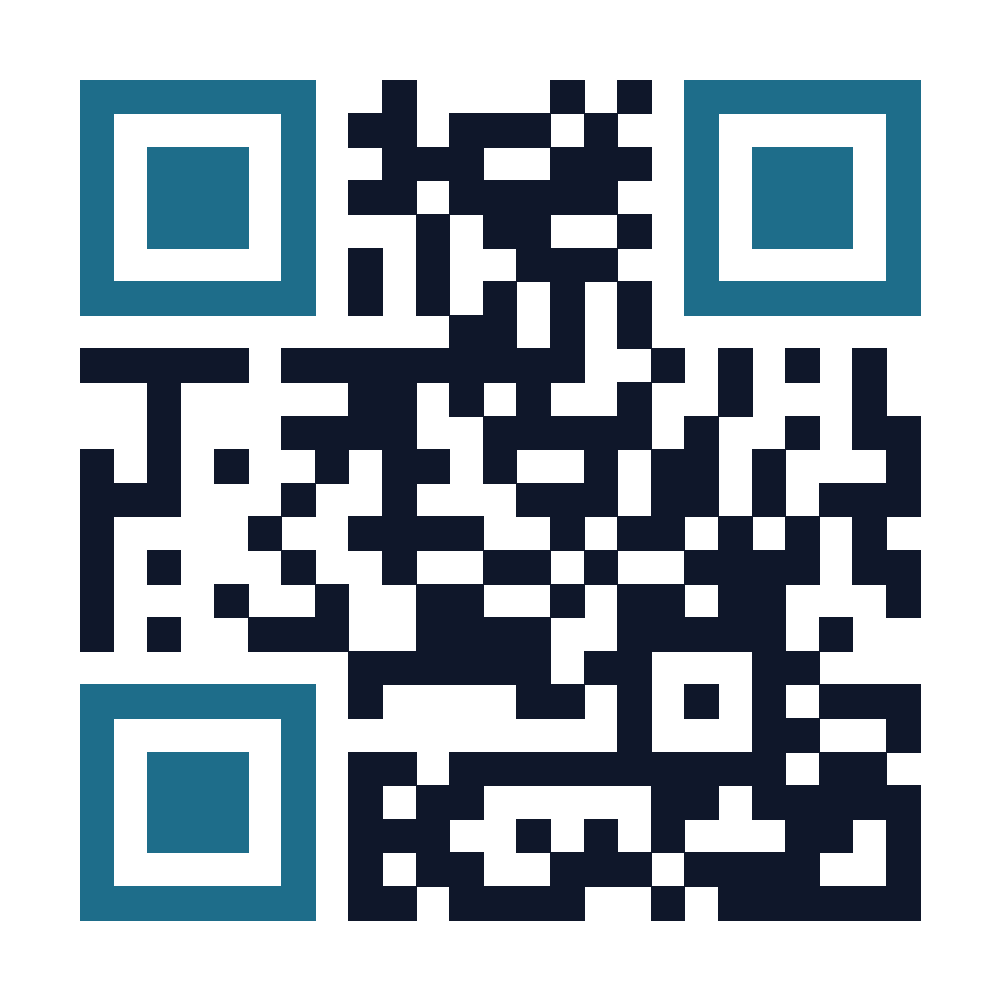
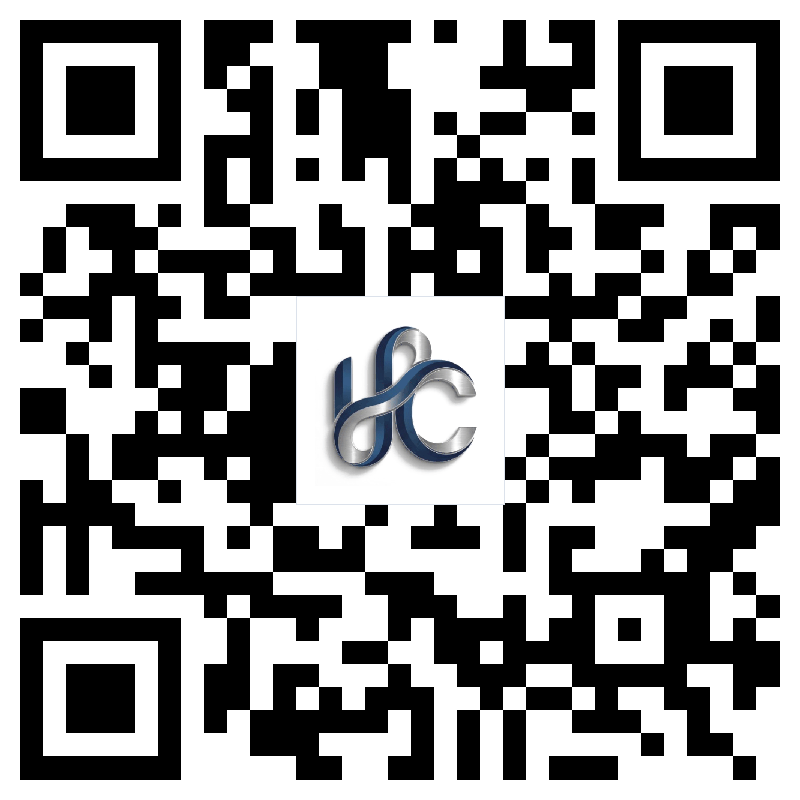
fix(qr): update QR code target URL to hassanandsonscorp.com and embed white-base emblem

diff --git a/resources/views/layouts/catalog.blade.php b/resources/views/layouts/catalog.blade.php
@@ -534,11 +534,11 @@
             {{-- QR Code Column --}}
             <div>
                 <h4>Scan &amp; Visit</h4>
-                <div style="background:#fff; padding:8px; border-radius:12px; border:1px solid var(--border); display:inline-block; margin-bottom:8px; box-shadow:0 2px 8px rgba(0,0,0,.04); cursor:pointer;" onclick="openQrModal('{{ url('/') }}', 'Hassan & Sons Store')">
-                    <img src="{{ asset('images/hassanandsons-qr.png') }}" alt="Store QR Code" style="width:100px; height:100px; display:block; border-radius:6px;">
+                <div style="background:#fff; padding:8px; border-radius:12px; border:1px solid var(--border); display:inline-block; margin-bottom:8px; box-shadow:0 2px 8px rgba(0,0,0,.04); cursor:pointer;" onclick="openQrModal('https://hassanandsonscorp.com/', 'Hassan & Sons Store')">
+                    <img src="{{ asset('images/hassanandsons-qr.png') }}?v=2" alt="Store QR Code" style="width:100px; height:100px; display:block; border-radius:6px;">
                 </div>
                 <p style="font-size:12px; color:var(--muted); line-height:1.4; margin-bottom:6px;">Scan with your smartphone camera to access store on mobile.</p>
-                <a href="{{ asset('images/hassanandsons-qr.png') }}" download="Hassan-and-Sons-QR.png" style="font-size:12px; font-weight:700; color:var(--primary); text-decoration:none; display:inline-flex; align-items:center; gap:4px;">
+                <a href="{{ asset('images/hassanandsons-qr.png') }}?v=2" download="Hassan-and-Sons-QR.png" style="font-size:12px; font-weight:700; color:var(--primary); text-decoration:none; display:inline-flex; align-items:center; gap:4px;">
                     <i class="bi bi-download"></i> Download QR
                 </a>
             </div>
@@ -669,10 +669,18 @@
     }
 
     // QR Code Modal
-    let currentQrUrl = "{{ url('/') }}";
+    let currentQrUrl = "https://hassanandsonscorp.com/";
 
     function openQrModal(targetUrl, title = 'Scan & Access Store') {
-        currentQrUrl = targetUrl || "{{ url('/') }}";
+        let cleanUrl = targetUrl || window.location.href;
+        // Ensure domain is hassanandsonscorp.com
+        if (!cleanUrl || cleanUrl.indexOf('localhost') !== -1 || cleanUrl.indexOf('127.0.0.1') !== -1) {
+            cleanUrl = "https://hassanandsonscorp.com/";
+        } else if (cleanUrl.indexOf('hassanandsons.com') !== -1 && cleanUrl.indexOf('hassanandsonscorp.com') === -1) {
+            cleanUrl = cleanUrl.replace('hassanandsons.com', 'hassanandsonscorp.com');
+        }
+        currentQrUrl = cleanUrl;
+
         const modal = document.getElementById('qrCodeModal');
         const img = document.getElementById('qrModalImage');
         const dlBtn = document.getElementById('btnDownloadQr');
@@ -680,9 +688,9 @@
 
         if (titleEl) titleEl.textContent = title;
 
-        if (!targetUrl || targetUrl === "{{ url('/') }}" || targetUrl.indexOf('localhost') !== -1 || targetUrl.indexOf('127.0.0.1') !== -1) {
-            img.src = "{{ asset('images/hassanandsons-qr.png') }}";
-            dlBtn.href = "{{ asset('images/hassanandsons-qr.png') }}";
+        if (cleanUrl === "https://hassanandsonscorp.com/" || cleanUrl === "https://hassanandsonscorp.com") {
+            img.src = "{{ asset('images/hassanandsons-qr.png') }}?v=2";
+            dlBtn.href = "{{ asset('images/hassanandsons-qr.png') }}?v=2";
         } else {
             const dynamicQr = "https://api.qrserver.com/v1/create-qr-code/?size=600x600&margin=15&data=" + encodeURIComponent(currentQrUrl);
             img.src = dynamicQr;
